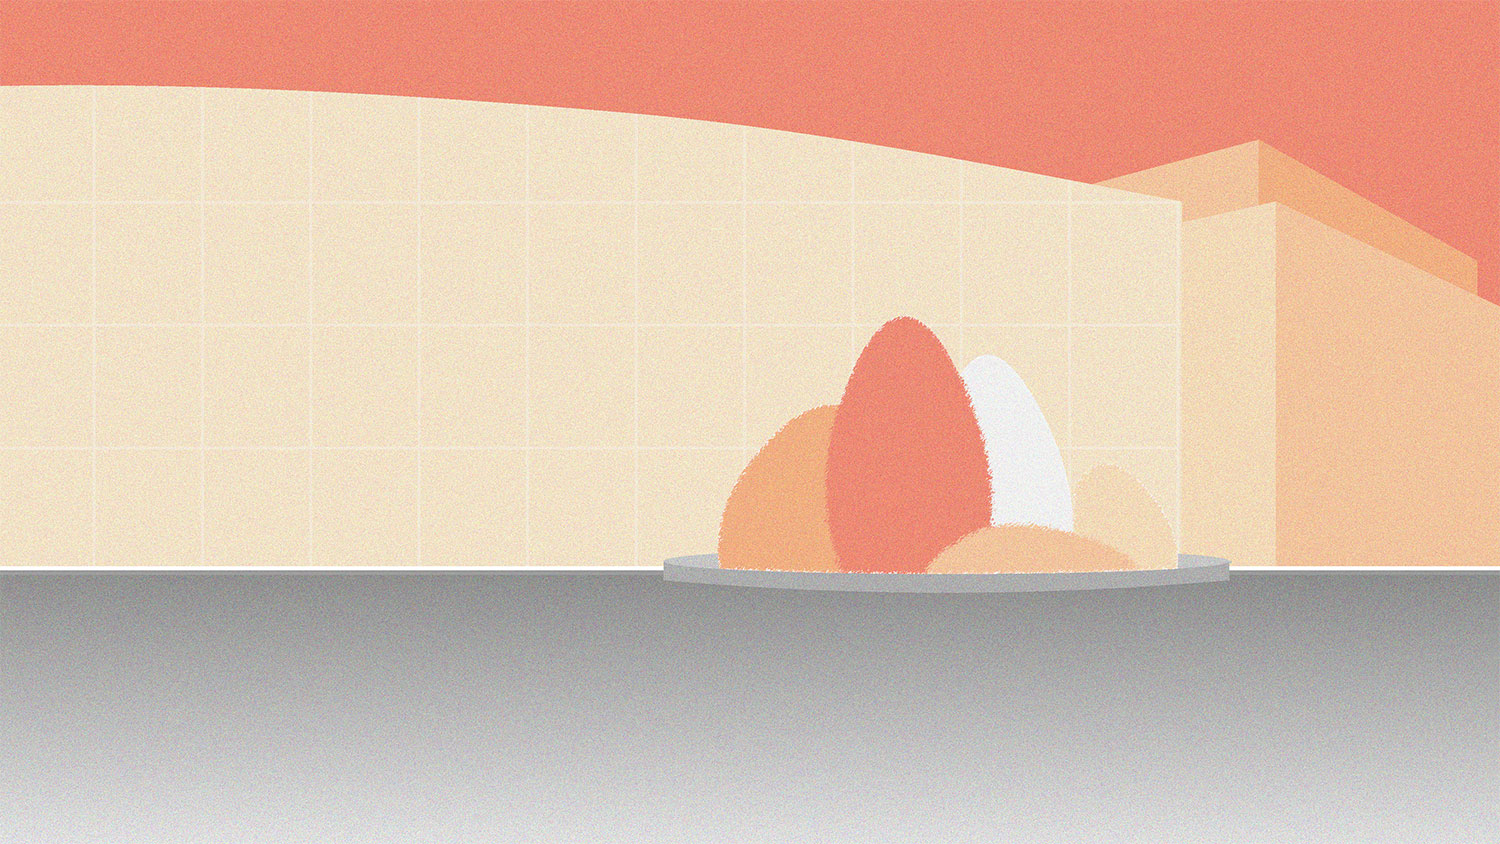
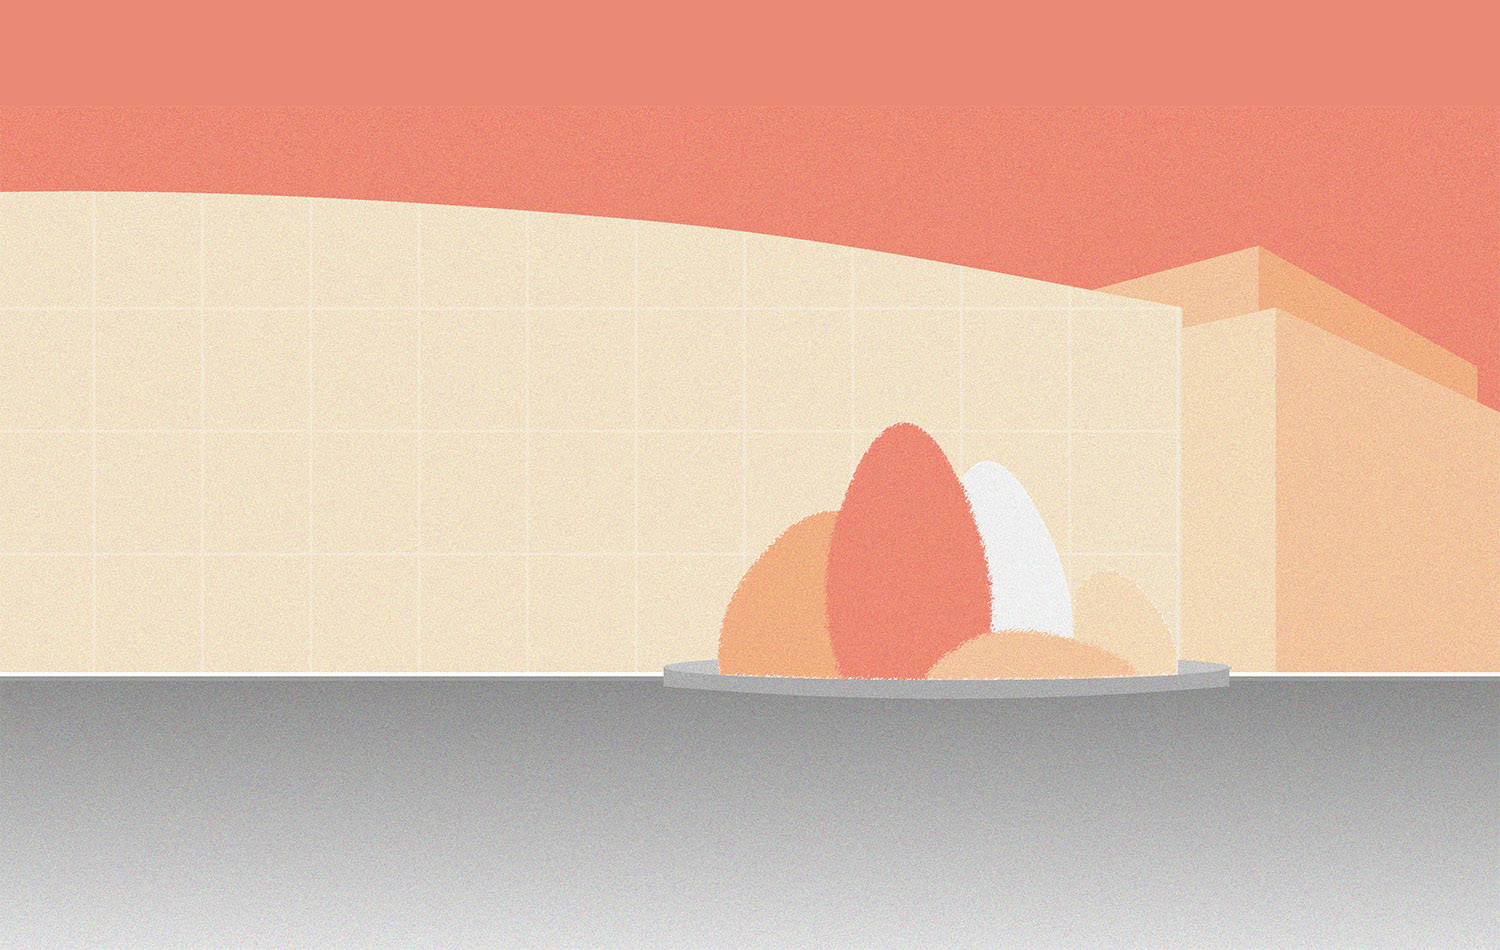
firefly bike

diff --git a/themes/beamsummit/assets/scss/_banner.scss b/themes/beamsummit/assets/scss/_banner.scss
@@ -5,52 +5,41 @@
   background-position: center;
   height: 100vh;
   display: grid;
-  gap: 10px 20px;
-  grid-template-rows: minmax(120px, 240px) minmax(150px,250px) minmax(200px, 300px);
-  text-align: center;
+  grid-template-columns: 1fr 1fr;
 
 
-  @media (max-width:875px) {
-    height: 80vh;
-  }
-
-  @media (max-width: 767px) {
-    height: 100vh;
+  @media (max-width: 992px) {
+    grid-template-columns: 1fr;
+    grid-template-rows: 70% 30%;
   } 
 
+  .mascot-container {
+    padding-bottom: 10vh;
+    width: 30vw;
+    align-self: end;
+    justify-self: center;
+    @media (max-width: 992px) {
+      grid-area: 2 / 1 / 3 / 2; 
+      width: 40vw;
+    } 
+  }
 
-  .hero-img{
-    @media (max-width:3000px) {
-      margin-top: 90px;
-    }
-    @media (max-width:2000px) {
-      margin-top: 30px;
-    }
-    @media (max-width:1750px) {
-      margin-top: 60px;
-    }
+  .info-container {
+    align-self: center;
+    justify-self: center;
+    width: 500px;
+    text-align: center;
+    @media (max-width: 992px) {
+      grid-area: 1 / 1 / 2 / 2; 
+      width: 80%;
+    } 
   }
 
 
-  .logo {
-
-    margin-top: 190px;
-    align-self: start;
-    background-color: white;
-    border-radius: 120px 0px 0px 120px;    
-    padding: 50px 50px 50px 50px;
-
-    @media (max-width: 767px){
-      margin-top: 15px;
-    }
-
-    @media (max-width: 1900px){
-      margin-top: 110px;
-    }
-
-    @media (max-width: 375px){
-      margin-top: 85px;
-    }
+  .info-area {
+    background-color: #c0c0c0c0;
+    border-radius: 40px;
+    padding: 2em 2em 1em 2em;
 
   }
 
@@ -67,27 +56,6 @@
   }
 
 
-  .mascota img {
-
-    
-    @media (max-width: 1900px){
-      max-height: 68vh;
-      margin-top: 0px;
-    }
-
-
-    @media (max-width: 767px){
-      max-height: 22vh;
-      margin-top: -90px;
-    }
-
-    @media (max-width: 375px){
-      max-height: 22vh;
-      margin-top: -165px;
-    }
-
- }
-
   .sub-hero{
   color: $secondary-color !important;
   font-weight: 600;
@@ -100,16 +68,7 @@
 
   .meta {
 
-    align-self: end;
     margin-top: 30px;
-
-    @media (max-width: 875px) {
-      margin-top: 20px;
-    }
-
-    @media (max-width: 375px){
-      margin-top: 15px;
-    }
 
     .date, .location {
       color: $secondary-color;

diff --git a/themes/beamsummit/layouts/index.html b/themes/beamsummit/layouts/index.html
@@ -2,47 +2,8 @@
 
 {{ $data := index .Site.Data }}
 
-<!-- banner -->
-{{ with $data.homepage.banner }}
-
-<div class="section-banner">
-
-<div class="row content hero-img">
-  <div class="col-md-6">
-    <div class="mascota">    
-      <img src="/images/firefly-bike.png" class="img-fluid">
-    </div>
-  </div>
-  <div class="col-md-6">
-
-    <div class="logo">
-      <img src="{{ .logo }}">
-    </div>
-
-    <div class="meta">
-      <p class="sub-hero">{{ .subtitle }}</p>
-      <p class="mb-2 date">{{ .date }}</p>
-      <p class="mb-4 location">{{ .venue | markdownify}}</p>
-  
-      {{ if .button1.enable }}
-          {{ with .button1 }}
-          <a href="{{ .link | relURL }}" target="_blank" class="btn btn-banner1 btn-rounded mt-3">{{ .label }}</a>
-          {{ end }}
-      {{ end }}
-  
-      {{ if .button2.enable }}
-          {{ with .button2 }}
-          <a href="{{ .link | relURL }}" target="_blank" class="btn btn-banner2 btn-rounded mt-3 ml-4">{{ .label }}</a>
-          {{ end }}
-      {{ end }}
-  {{ end }}
-  
-    </div>
-  </div>
-</div>
-</div>
-
 <!-- /banner -->
+{{ partial "hero.html" . }}
 
 <!-- event_info  -->
 {{ if $data.homepage.event_info.enable }}

diff --git a/themes/beamsummit/layouts/partials/hero.html b/themes/beamsummit/layouts/partials/hero.html
@@ -1,0 +1,40 @@
+{{ $data := index .Site.Data }}
+
+<!-- banner -->
+{{ with $data.homepage.banner }}
+
+<div class="section-banner">
+  <div class="mascot-container">
+    <img src="/images/firefly-bike.png" class="img-fluid" />
+  </div>
+  <div class="info-container">
+    <div class="info-area">
+        <div class="logo">
+            <img src="{{ .logo }}" />
+          </div>
+          <div class="meta">
+            <p class="sub-hero">{{ .subtitle }}</p>
+            <p class="mb-2 date">{{ .date }}</p>
+            <p class="mb-4 location">{{ .venue | markdownify}}</p>
+          </div>            
+    </div>
+
+
+    {{ if .button1.enable }} {{ with .button1 }}
+    <a
+      href="{{ .link | relURL }}"
+      target="_blank"
+      class="btn btn-banner1 btn-rounded mt-3"
+      >{{ .label }}</a
+    >
+    {{ end }} {{ end }} {{ if .button2.enable }} {{ with .button2 }}
+    <a
+      href="{{ .link | relURL }}"
+      target="_blank"
+      class="btn btn-banner2 btn-rounded mt-3 ml-4"
+      >{{ .label }}</a
+    >
+    {{ end }} {{ end }}
+  </div>
+</div>
+{{ end }}
